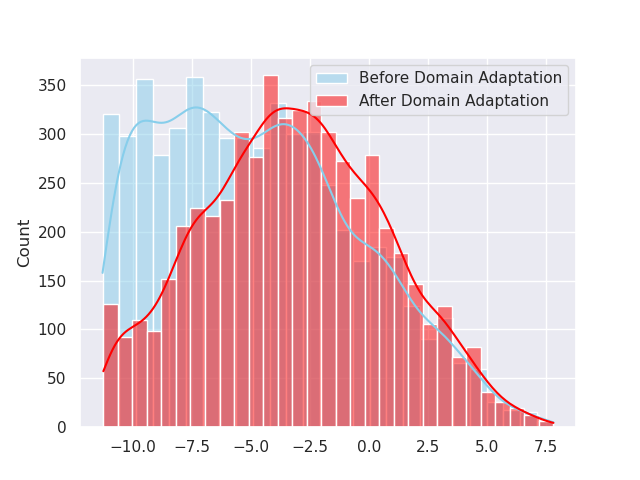
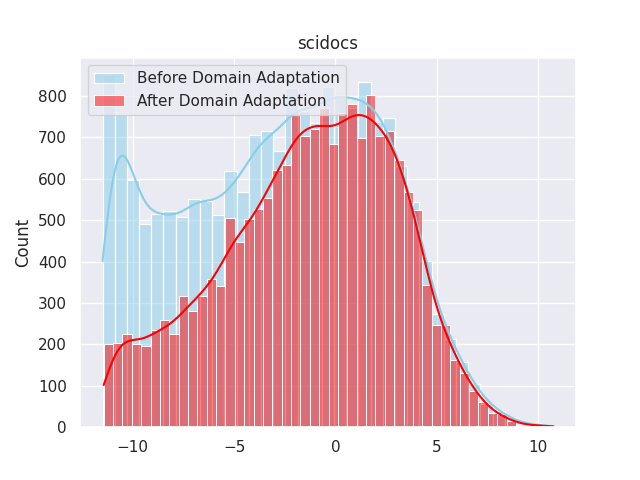
Finish integrated gradients

diff --git a/visualize_difference.py b/visualize_difference.py
@@ -20,13 +20,14 @@ def main(data_name):
             df_before = pd.read_pickle(f"./differences/{data_name}/before_{qid}.pkl")
             df_after = pd.read_pickle(f"./differences/{data_name}/after_{qid}.pkl")
 
-            df_before_non_rel = df_before[df_before['relevant'] != True].head(n = 100)
-            df_after_non_rel = df_after[df_after['relevant'] != True].head(n = 100)
+            df_before_non_rel = df_before[df_before['relevant'] != True].head(n = 50)
+            df_after_non_rel = df_after[df_after['relevant'] != True].head(n = 50)
             accumulate_before.extend(df_before_non_rel['cross_encoder_score'])
             accumulate_after.extend(df_after_non_rel['cross_encoder_score'])
 
     sns.histplot(accumulate_before,color="skyblue", label="Before Domain Adaptation", kde=True)
     sns.histplot(accumulate_after, color="red", label="After Domain Adaptation", kde=True)
+    plt.title(f'{data_name}')
     plt.legend() 
     plt.show()
     plt.savefig(f"difference_plots/{data_name}.png")

diff --git a/integrated_gradients.py b/integrated_gradients.py
@@ -120,6 +120,7 @@ def main(data_name):
 
     for qid, key in load_json(f"differences/{data_name}.json").items():
         query = [queries[qid]]
+        #TODO Find a smarter way to find 
         did = list(qrels[qid].keys())[0]
         doc = [concat_title_and_body(did, corpus)]
         facade(model_before = base,
